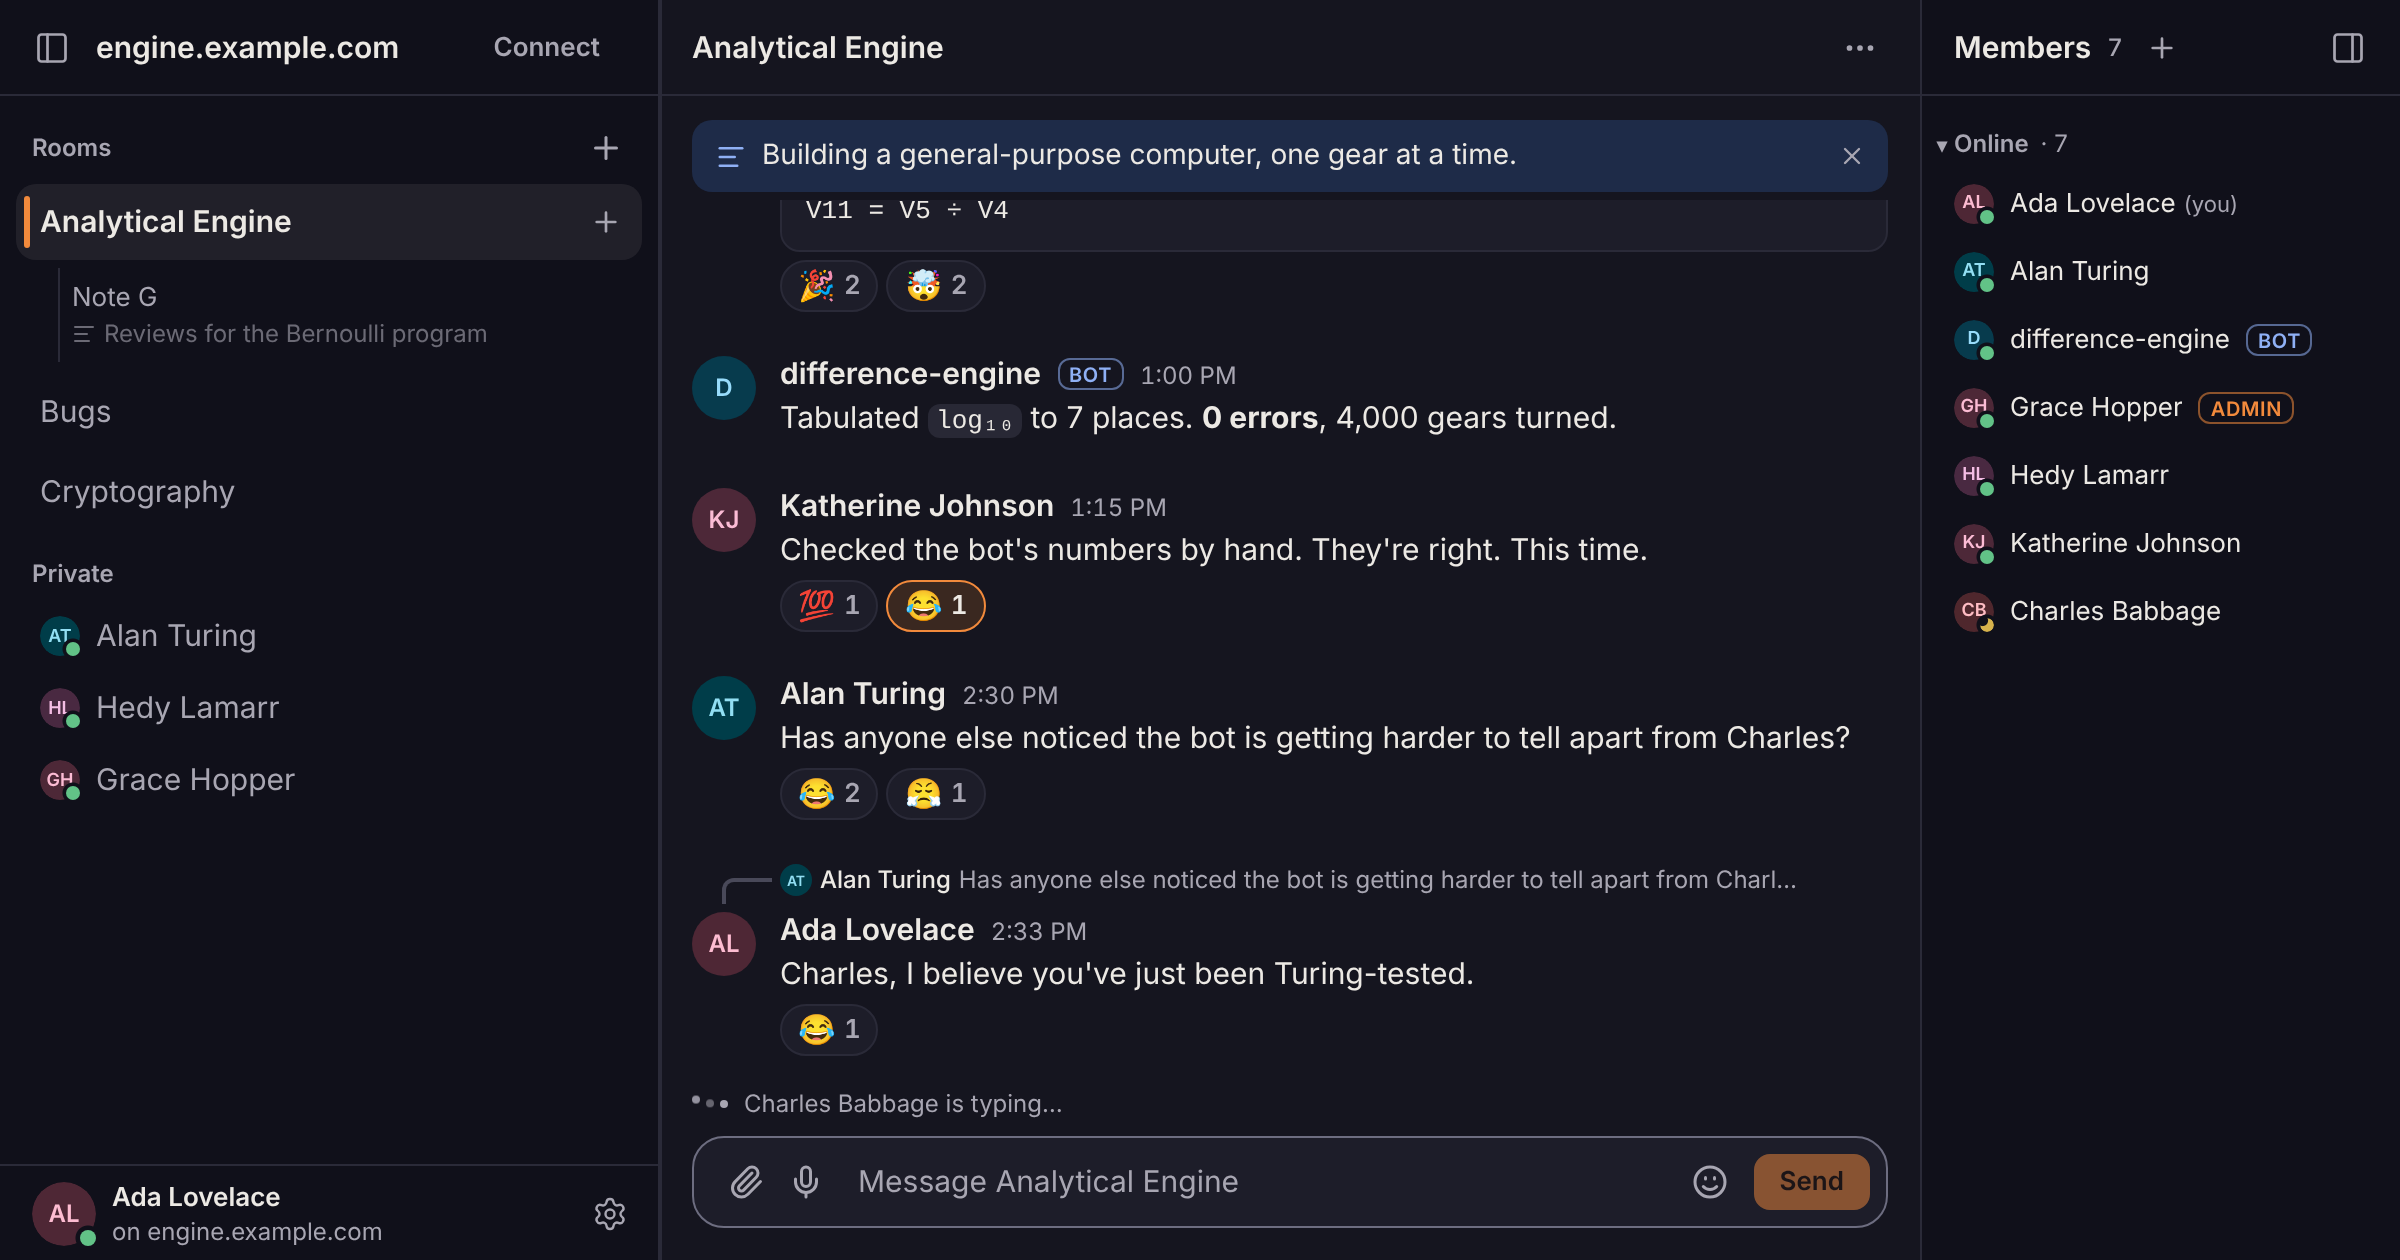
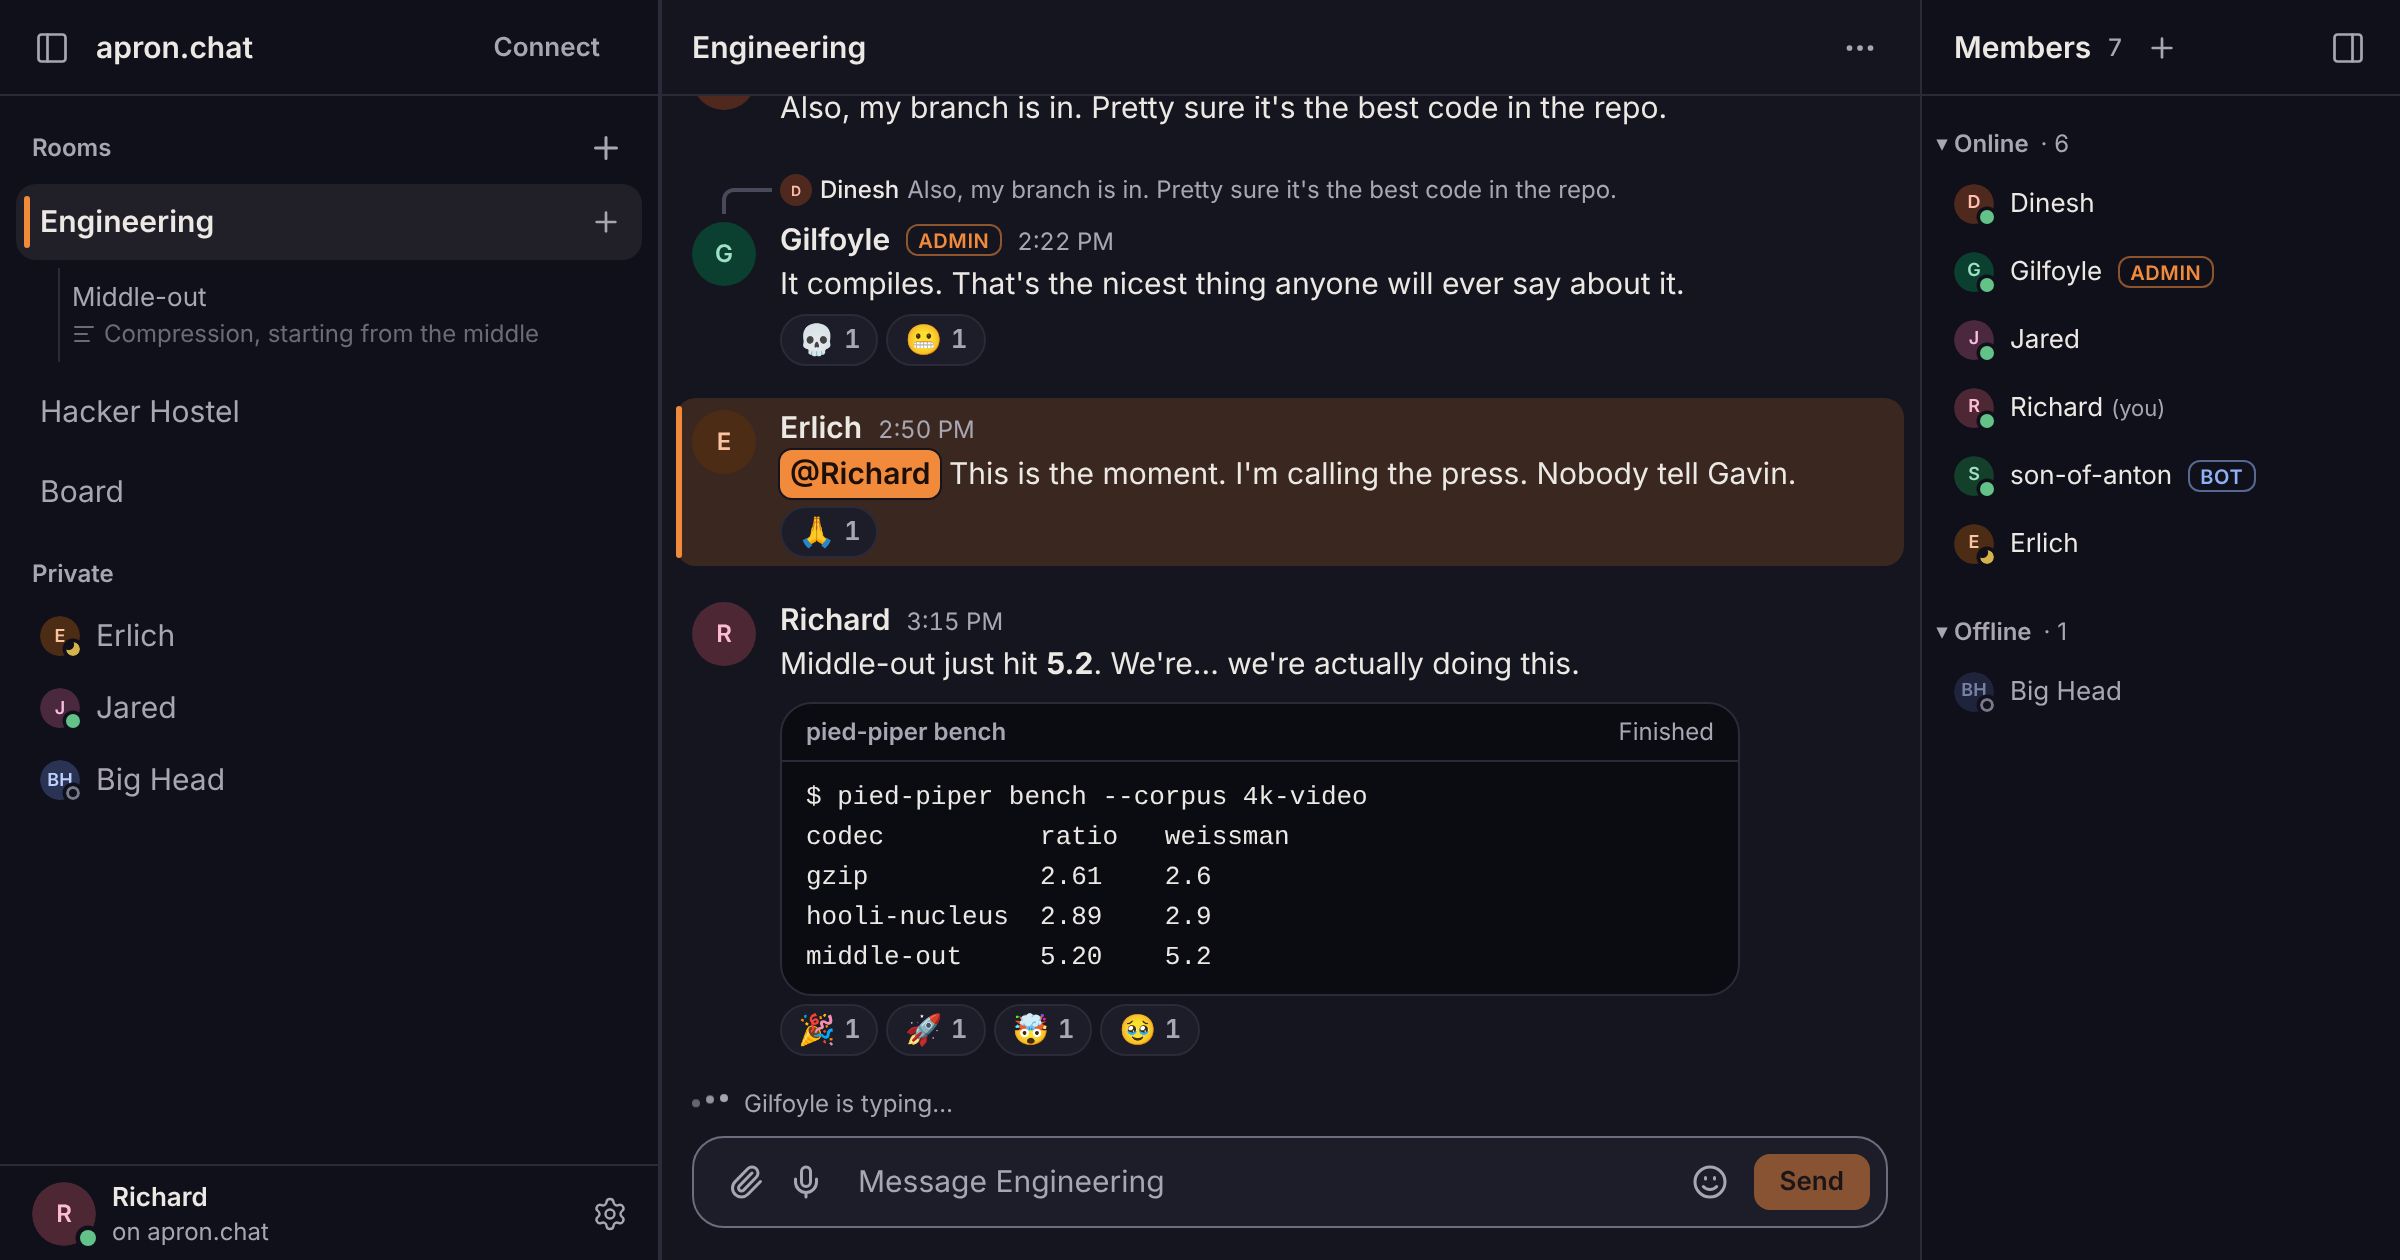
Use the Silicon Valley scene for the link preview image
Claude-Session: https://claude.ai/code/session_01YRJidC9QwtXThwsAjRtLGw

diff --git a/src/routes/+page.svelte b/src/routes/+page.svelte
@@ -2739,7 +2739,7 @@
 	<meta property="og:image" content="https://web.apron.chat/og.png" />
 	<meta property="og:image:width" content="2400" />
 	<meta property="og:image:height" content="1260" />
-	<meta property="og:image:alt" content="The Apron web client: rooms, a thread, direct messages, members, reactions and a code block." />
+	<meta property="og:image:alt" content="The Apron web client: an engineering room with a mention, a replied-to message, reactions and a benchmark in a terminal, beside rooms, a thread, direct messages and members." />
 	<meta name="twitter:card" content="summary_large_image" />
 </svelte:head>
 
